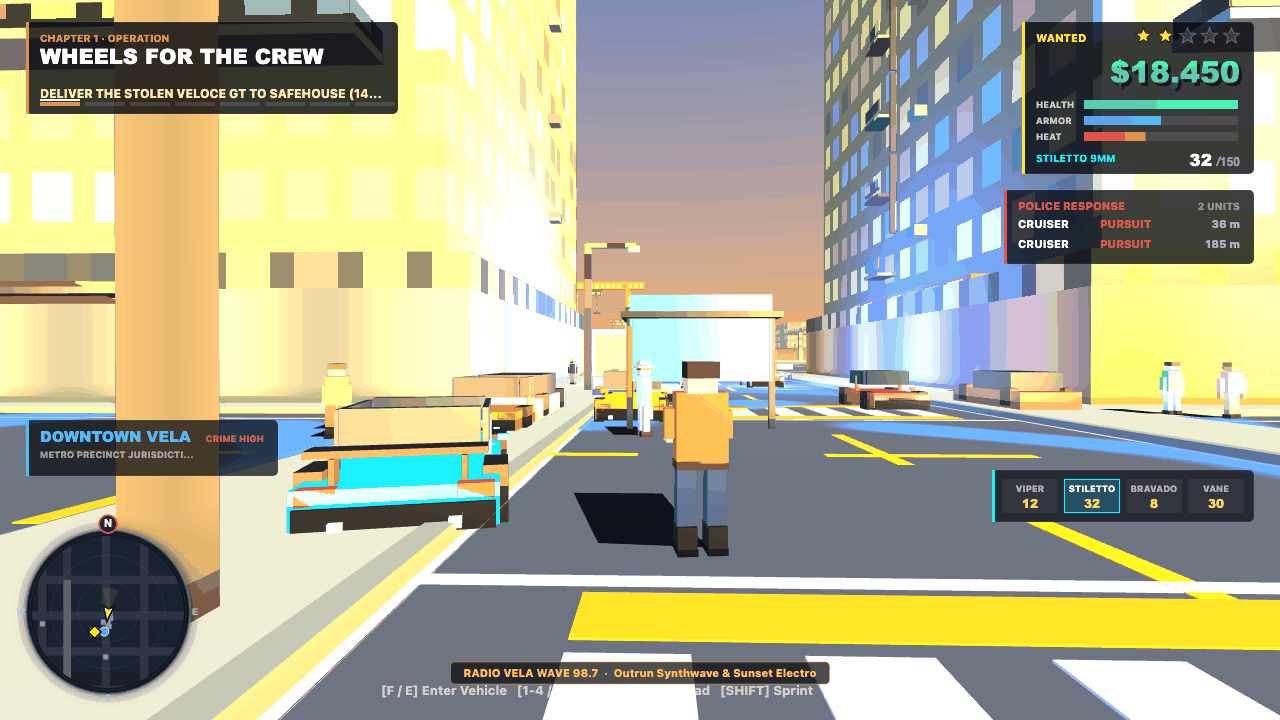
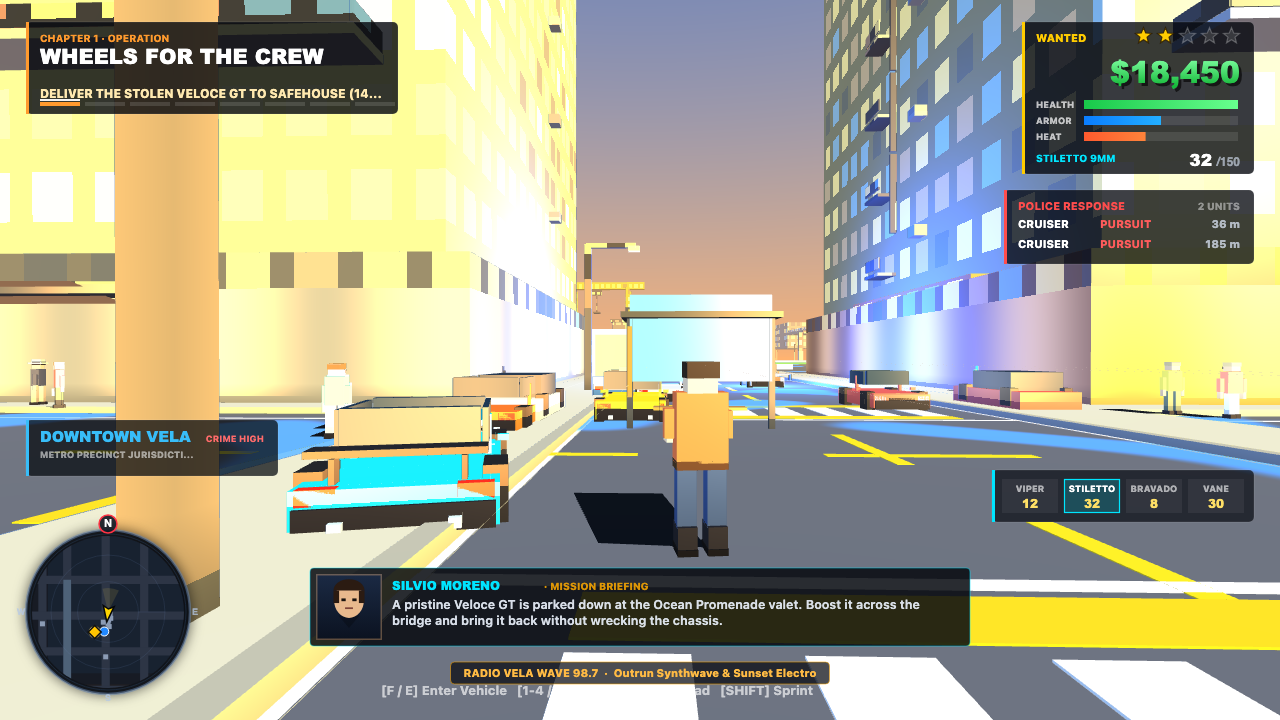
feat(hud): add mission briefing box with generated character portraits and per-shot dialogue

diff --git a/game/src/hud.js b/game/src/hud.js
@@ -81,6 +81,7 @@ export class HUD {
     this.renderPolicePanel(ctx, w, h, police, vehicles, player);
     this.renderDistrictPanel(ctx, w, h, districts, shotPreset);
     this.renderWeaponRack(ctx, w, h, player, shotPreset);
+    this.renderDialogue(ctx, w, h, missions, shotPreset);
     this.renderRadioTicker(ctx, w, h, radio);
 
     if (districts && districts.bannerTimer > 0) {
@@ -383,6 +384,135 @@ export class HUD {
     ctx.fillStyle = '#ffbb44';
     ctx.fillText(text, w * 0.5, y + 15);
     ctx.textAlign = 'left';
+  }
+
+
+  // ---------------------------------------------------------------
+  // Bottom centre: character briefing box with portrait
+  // ---------------------------------------------------------------
+  renderDialogue(ctx, w, h, missions, shotPreset) {
+    const mission = missions && missions.getCurrentMission ? missions.getCurrentMission() : null;
+    if (!mission) return;
+    const speaker = shotPreset && shotPreset.speaker ? shotPreset.speaker : (mission.giver || 'Vela Bay Dispatch');
+    const text = shotPreset && shotPreset.dialogue ? shotPreset.dialogue : (mission.dialogue || '');
+    if (!text) return;
+
+    const pw = 660;
+    const ph = 78;
+    const x = (w - pw) * 0.5;
+    const y = h - 152;
+
+    ctx.fillStyle = 'rgba(6, 9, 15, 0.86)';
+    ctx.beginPath();
+    ctx.roundRect(x, y, pw, ph, 4);
+    ctx.fill();
+    ctx.strokeStyle = 'rgba(0, 229, 255, 0.45)';
+    ctx.lineWidth = 1.2;
+    ctx.stroke();
+
+    // Speaker portrait
+    this.drawPortrait(ctx, x + 6, y + 6, 66, speaker);
+
+    // Speaker name plate
+    ctx.font = '900 12px "Arial Black", sans-serif';
+    ctx.textAlign = 'left';
+    ctx.fillStyle = '#00e5ff';
+    ctx.fillText(speaker.toUpperCase(), x + 82, y + 22);
+    const nameW = ctx.measureText(speaker.toUpperCase()).width;
+    ctx.fillStyle = 'rgba(255,170,0,0.85)';
+    ctx.font = '800 10px -apple-system, BlinkMacSystemFont, "Segoe UI", sans-serif';
+    ctx.fillText('· MISSION BRIEFING', x + 88 + nameW * 1.35, y + 22);
+
+    // Dialogue body, wrapped
+    ctx.font = '600 12.5px -apple-system, BlinkMacSystemFont, "Segoe UI", sans-serif';
+    ctx.fillStyle = 'rgba(233, 240, 250, 0.92)';
+    const lines = this.wrapText(ctx, text, pw - 100);
+    let ly = y + 41;
+    for (const line of lines.slice(0, 3)) {
+      ctx.fillText(line, x + 82, ly);
+      ly += 16;
+    }
+  }
+
+  wrapText(ctx, text, maxWidth) {
+    const words = String(text).split(' ');
+    const lines = [];
+    let line = '';
+    for (const word of words) {
+      const test = line ? line + ' ' + word : word;
+      if (ctx.measureText(test).width > maxWidth && line) {
+        lines.push(line);
+        line = word;
+      } else {
+        line = test;
+      }
+    }
+    if (line) lines.push(line);
+    return lines;
+  }
+
+  // A flat, stylised bust that matches the game's low-poly cast.
+  drawPortrait(ctx, x, y, size, name) {
+    let seed = 0;
+    for (let i = 0; i < name.length; i++) seed = (seed * 31 + name.charCodeAt(i)) >>> 0;
+    const skin = ['#e8b98d', '#c98e63', '#f2cfa6', '#a9714b'][seed % 4];
+    const hair = ['#2b1b12', '#4a2c19', '#c0392b', '#1c1c22'][seed % 4];
+    const shirt = ['#2b6cb0', '#7b3f9d', '#2f855a', '#b7791f'][(seed >> 3) % 4];
+
+    ctx.save();
+    ctx.beginPath();
+    ctx.rect(x, y, size, size);
+    ctx.clip();
+
+    // Backdrop
+    const g = ctx.createLinearGradient(x, y, x, y + size);
+    g.addColorStop(0, '#1b2a44');
+    g.addColorStop(1, '#0b1220');
+    ctx.fillStyle = g;
+    ctx.fillRect(x, y, size, size);
+
+    const cx = x + size * 0.5;
+    // Shoulders
+    ctx.fillStyle = shirt;
+    ctx.beginPath();
+    ctx.moveTo(x + size * 0.08, y + size);
+    ctx.lineTo(x + size * 0.24, y + size * 0.62);
+    ctx.lineTo(x + size * 0.76, y + size * 0.62);
+    ctx.lineTo(x + size * 0.92, y + size);
+    ctx.closePath();
+    ctx.fill();
+    // Collar
+    ctx.fillStyle = 'rgba(0,0,0,0.25)';
+    ctx.beginPath();
+    ctx.moveTo(cx - size * 0.16, y + size * 0.63);
+    ctx.lineTo(cx, y + size * 0.82);
+    ctx.lineTo(cx + size * 0.16, y + size * 0.63);
+    ctx.closePath();
+    ctx.fill();
+    // Head
+    ctx.fillStyle = skin;
+    ctx.beginPath();
+    ctx.ellipse(cx, y + size * 0.40, size * 0.225, size * 0.265, 0, 0, Math.PI * 2);
+    ctx.fill();
+    // Hair
+    ctx.fillStyle = hair;
+    ctx.beginPath();
+    ctx.ellipse(cx, y + size * 0.25, size * 0.235, size * 0.17, 0, Math.PI, Math.PI * 2);
+    ctx.fill();
+    ctx.fillRect(cx - size * 0.235, y + size * 0.25, size * 0.085, size * 0.19);
+    ctx.fillRect(cx + size * 0.15, y + size * 0.25, size * 0.085, size * 0.19);
+    // Eyes
+    ctx.fillStyle = '#1a1410';
+    ctx.fillRect(cx - size * 0.115, y + size * 0.37, size * 0.065, size * 0.042);
+    ctx.fillRect(cx + size * 0.05, y + size * 0.37, size * 0.065, size * 0.042);
+    // Mouth
+    ctx.fillStyle = 'rgba(90,30,30,0.75)';
+    ctx.fillRect(cx - size * 0.06, y + size * 0.505, size * 0.12, size * 0.026);
+    // Rim light
+    ctx.strokeStyle = 'rgba(255,190,120,0.35)';
+    ctx.lineWidth = 1.5;
+    ctx.strokeRect(x + 0.75, y + 0.75, size - 1.5, size - 1.5);
+    ctx.restore();
   }
 
   drawStar(ctx, cx, cy, spikes, outerRadius, innerRadius) {

diff --git a/game/src/config.js b/game/src/config.js
@@ -398,6 +398,8 @@ export const SHOT_PRESETS = {
     // kerbside parked muscle car, double-parked delivery hauler; pedestrians walking in pairs along sidewalks;
     // responding police cruiser with flashing lightbar in mid/far distance; 2 wanted stars on HUD matching minimap blips.
     name: '3-downtown-street.png',
+    speaker: 'Silvio Moreno',
+    dialogue: 'A pristine Veloce GT is parked down at the Ocean Promenade valet. Boost it across the bridge and bring it back without wrecking the chassis.',
     missionTitle: 'WHEELS FOR THE CREW',
     camera: {
       pos: [119.6, 2.05, -127.0],
@@ -444,6 +446,8 @@ export const SHOT_PRESETS = {
     // Car clearly a car with shaped body, bonnet, cabin, roof, boot, sun catching windscreen.
     // Boulevard with Art Deco buildings, palm trees, wanted level 0 or 1, full HUD with minimap & waypoint.
     name: '2-car-promenade.png',
+    speaker: 'Silvio Moreno',
+    dialogue: 'A pristine Veloce GT is parked down at the Ocean Promenade hotel valet. Boost it and bring it back without wrecking the chassis.',
     missionTitle: 'COASTAL TIME TRIAL',
     camera: {
       pos: [-106.5, 1.6, 71.0],
@@ -475,6 +479,8 @@ export const SHOT_PRESETS = {
     // lights washing the street and buildings, wanted level showing 5 stars, tactical police chopper overhead, HUD & minimap with police blips.
     // Soft transparent pale amber searchlight beam with feathered ground ellipse, illuminating street without obscuring action.
     name: '1-police-chase.png',
+    speaker: 'Elena Rossi',
+    dialogue: 'Metro Police set up a dragnet across the northern avenues. Punch through their perimeter and cross the Vela Bay Suspension Bridge before the lockdown closes.',
     missionTitle: 'FIVE-STAR ESCAPE',
     camera: {
       pos: [44.4, 2.45, -54.0],
@@ -510,10 +516,12 @@ export const SHOT_PRESETS = {
     // dockside jib crane & 36m gantry crane against sunset sky, white coastal gulls, water basin, and far shore breakwater.
     // HUD: Mission objective, 3 wanted stars, $75,000 cash, minimap with objective marker, health & armor bars, carbine ammo.
     name: '4-dock-heist.png',
+    speaker: 'Elena Rossi',
+    dialogue: 'A shipment of high-caliber military hardware is being offloaded at Meridian Cargo Docks Pier 7. Ambush the crew, seize the contraband crates and load the getaway van.',
     missionTitle: 'DOCK HEIST AMBUSH',
     camera: {
-      pos: [142.2, 2.15, 104.5],
-      target: [154.5, 2.25, 126.5],
+      pos: [140.5, 1.75, 106.0],
+      target: [153.5, 4.2, 123.5],
       fov: 62,
     },
     player: {

diff --git a/README.md b/README.md
@@ -111,7 +111,7 @@ The codebase is structured into single-responsibility ES modules under `game/src
 - [`police.js`](file:///Users/bonson/.deepai-code/scratch/2026-11-17-tes-4dccd960/repos/nightfall-city/game/src/police.js): 0–5 star wanted heat manager, pursuit cruisers, roadblock deployment, tactical police helicopter with realistic atmospheric searchlight beam and ground illumination ellipse, and evasion bonuses.
 - [`combat.js`](file:///Users/bonson/.deepai-code/scratch/2026-11-17-tes-4dccd960/repos/nightfall-city/game/src/combat.js): Real-time ballistics with glowing tracer rounds, multi-pellet shotgun spread, Syndicate enforcer AI, and fireball explosions.
 - [`missions.js`](file:///Users/bonson/.deepai-code/scratch/2026-11-17-tes-4dccd960/repos/nightfall-city/game/src/missions.js): 8-part story arc manager, checkpoint street races, taxi fare generator, and 3D rotating diamond beacon.
-- [`hud.js`](file:///Users/bonson/.deepai-code/scratch/2026-11-17-tes-4dccd960/repos/nightfall-city/game/src/hud.js): 2D Canvas tactical HUD — mission dossier panel (chapter, operation, objective, range, story-stage pips), wanted/cash/health/armor/heat stack with 5 wanted stars and weapon readout, live police response table (unit, status, range, including the helicopter air unit), district readout with crime-risk rating, weapon rack with per-weapon ammo, radio ticker, speedometer dial, and district toasts.
+- [`hud.js`](file:///Users/bonson/.deepai-code/scratch/2026-11-17-tes-4dccd960/repos/nightfall-city/game/src/hud.js): 2D Canvas tactical HUD — mission dossier panel (chapter, operation, objective, range, story-stage pips), wanted/cash/health/armor/heat stack with 5 wanted stars and weapon readout, live police response table (unit, status, range, including the helicopter air unit), district readout with crime-risk rating, weapon rack with per-weapon ammo, radio ticker, speedometer dial, district toasts, and a bottom-centre mission briefing box that renders the speaker's name, generated low-poly portrait and wrapped dialogue text.
 - [`minimap.js`](file:///Users/bonson/.deepai-code/scratch/2026-11-17-tes-4dccd960/repos/nightfall-city/game/src/minimap.js): Rotating GPS radar minimap displaying ocean coastline, roads, safehouse icon, traffic pips, flashing police markers, and objective waypoints.
 - [`audio.js`](file:///Users/bonson/.deepai-code/scratch/2026-11-17-tes-4dccd960/repos/nightfall-city/game/src/audio.js): 100% procedural WebAudio sound synthesizer: engine RPM revs, dual-tone sirens, drift screeches, gunshots, explosions, cash chimes, and radio audio.
 - [`radio.js`](file:///Users/bonson/.deepai-code/scratch/2026-11-17-tes-4dccd960/repos/nightfall-city/game/src/radio.js): Multi-station procedural radio system (Vela Wave 98.7, Sol Coastal FM, Metro Police Dispatch).
